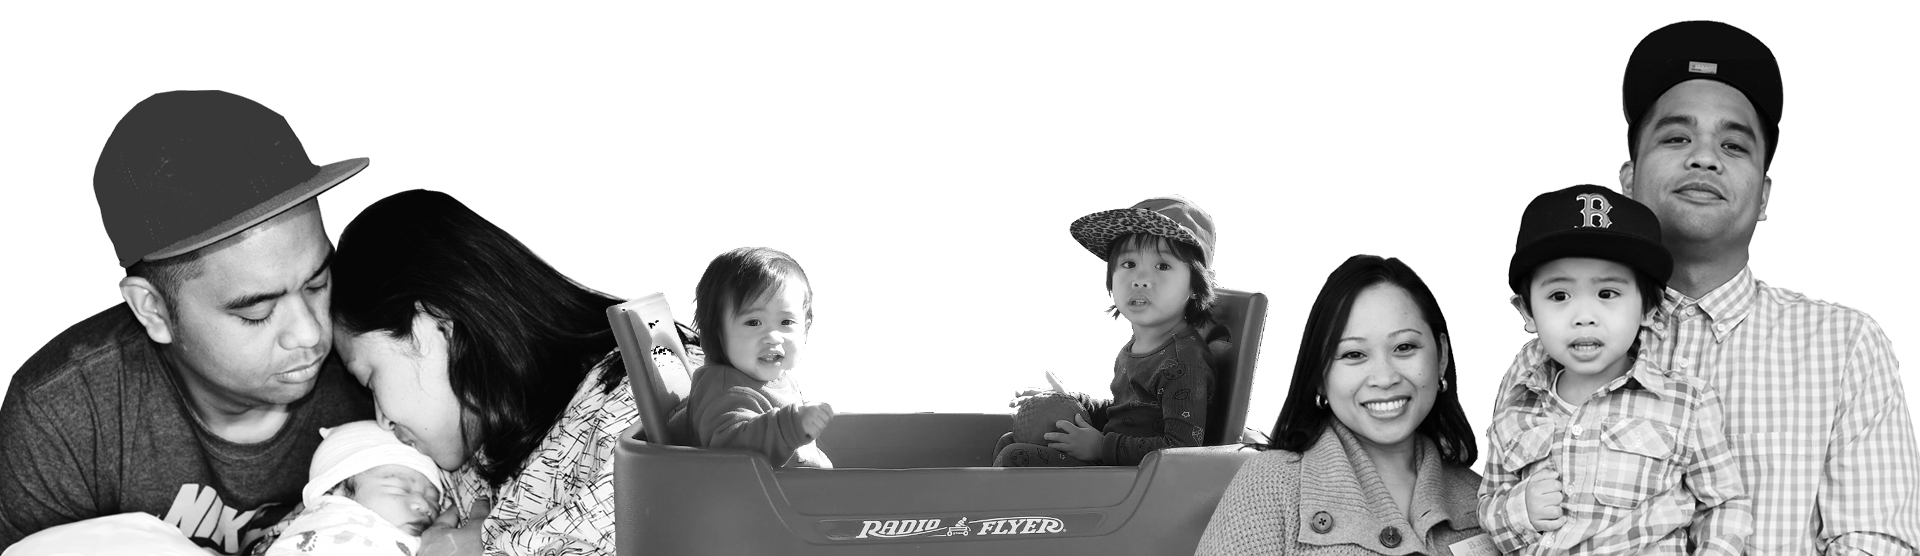
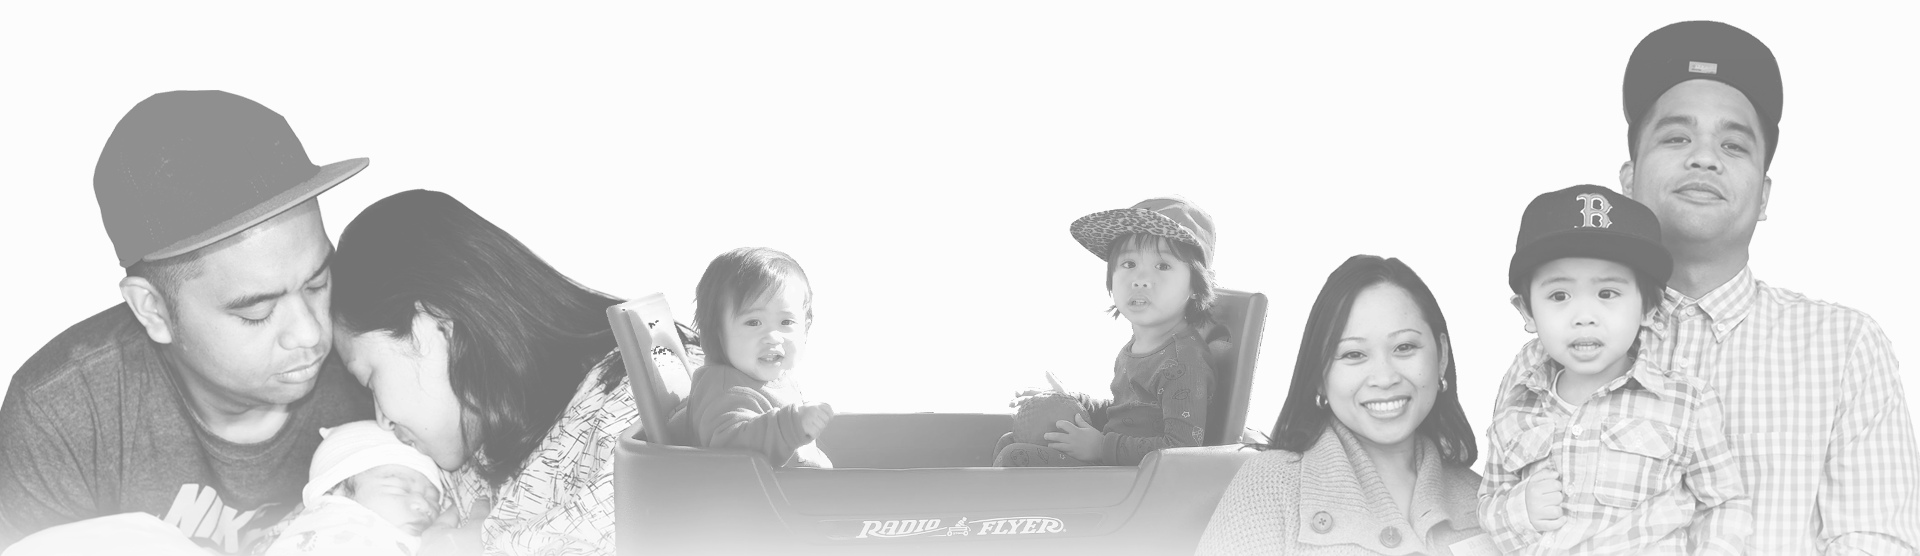
uprooting collage

diff --git a/_sass/_typography.scss b/_sass/_typography.scss
@@ -43,10 +43,6 @@ ol {
     margin-bottom: 1.777em;
 }
 
-sup {
-    z-index: -1;
-}
-
 .link {
 
     &--base {

diff --git a/about.md b/about.md
@@ -24,7 +24,7 @@ By the time our second son was born, I was sure of a few things. I knew I wanted
 
 At that point, we knew our lives had to change.
 
-<img class="img--FULL img--LIGHT" src="assets/fam-collage-1-trans.png" alt="">
+<img class="img--FULL" src="assets/fam-collage-1-trans.png" alt="">
 
 ### Uprooting
 
@@ -35,6 +35,8 @@ The transition was not easy, it wasn't cheap, and it didn't come without a ton o
 On the morning of March 2nd, 2014, we left the sunny west coast and bid farewell to San Diego.
 
 It was 28<sup> ºF</sup> when we landed in Texas.
+
+<img class="img--FULL" src="assets/fam-collage-2.png" alt="">
 
 ### New heights
 
